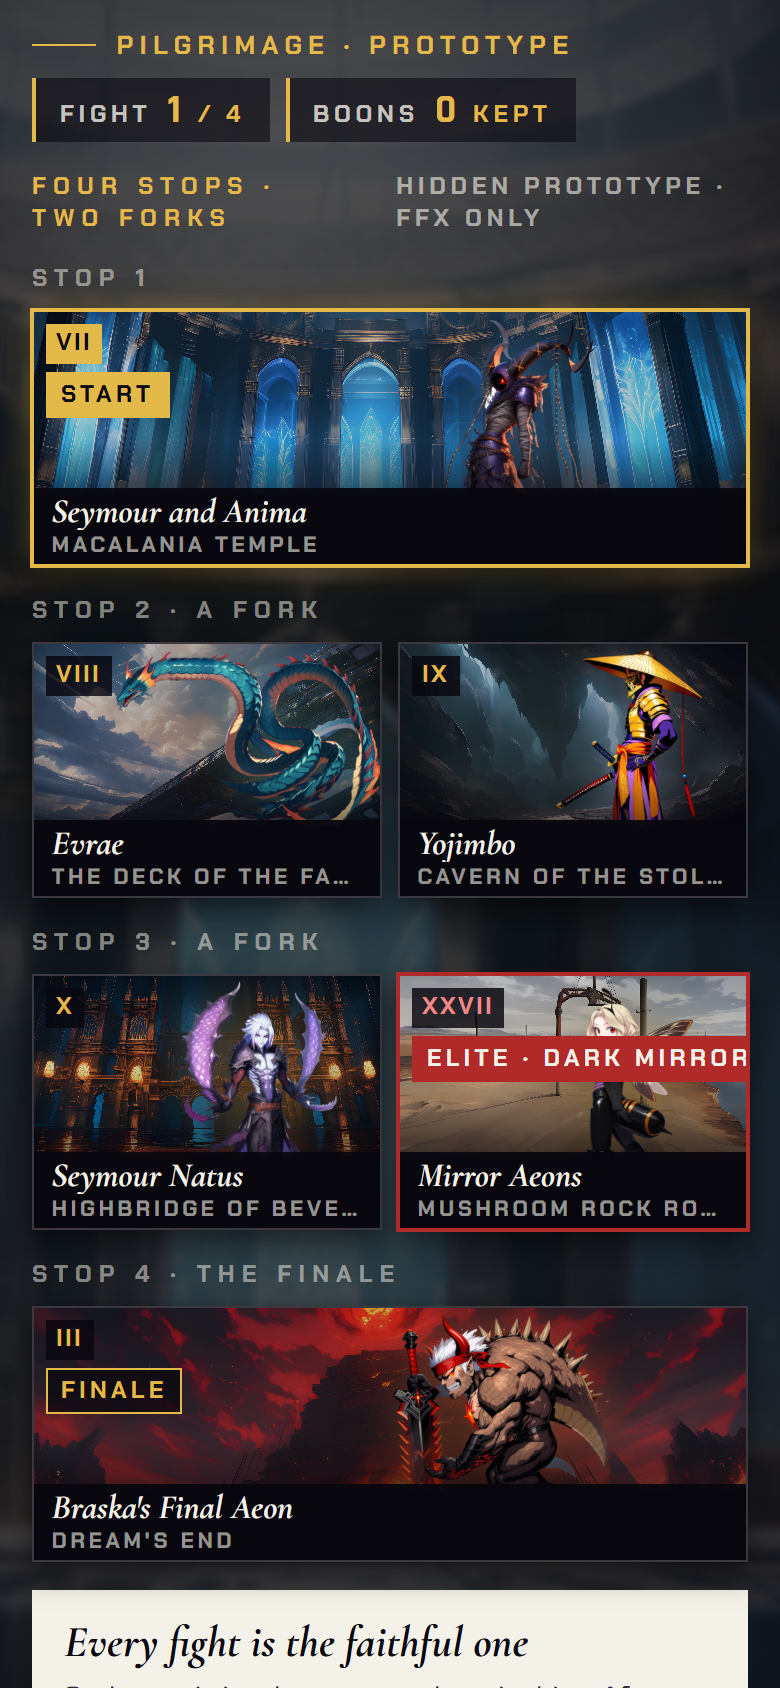
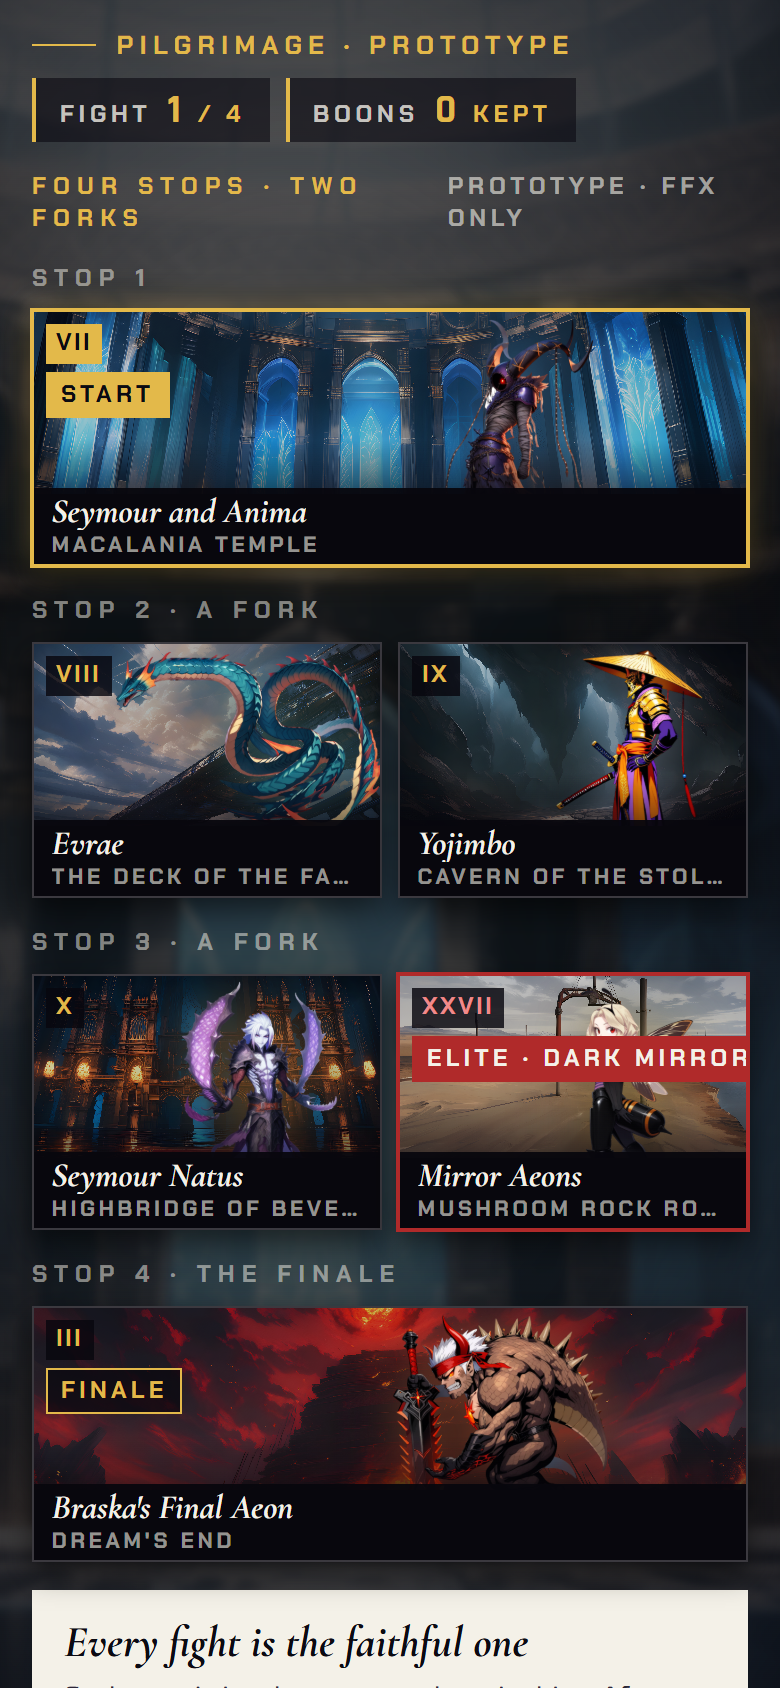
The Pilgrimage: a boon card shows a player a short tag (FFX item, FFX armour ability, New boon), never a file path or "ours"; the road's heading says Prototype
The sources stay in BoonDef.src, the code comments and the tests that pin them. A new test renders the road, every boon card, the road choice, the run-over page (lost and left) and the RUN tab and fails on a repo path, a research reference or the word "ours". Screenshots replaced from the e2e at 1600x900 and 390x844.

Game case: FFX only (the Pilgrimage's boons); presentation text only.

Changed region(s): [[0.4923, 0.0924, 0.9231, 0.154], [0.0308, 0.1232, 0.2769, 0.154], [0.4, 0.0924, 0.4615, 0.1232]]

diff --git a/src/app/pilgrim/boons.ts b/src/app/pilgrim/boons.ts
@@ -38,8 +38,10 @@ export interface BoonDef {
   readonly kind: 'ITEM' | 'ARMOUR' | 'NEW';
   /** What it does, in plain words. */
   readonly fx: string;
-  /** Where it comes from: the repo file and the research section, or NEW. */
+  /** Where it comes from: the repo file and the research section, or NEW. **Code and tests only: it is never shown to a player** (`tag` is what the card prints). */
   readonly src: string;
+  /** The short player-facing footer of the card: what kind of thing this is. */
+  readonly tag: 'FFX item' | 'FFX armour ability' | 'New boon';
   readonly effect: BoonEffect;
   /** True for a row the game does not have (the card wears a NEW tag). */
   readonly isNew: boolean;
@@ -50,16 +52,16 @@ const ABILITY_SRC = 'FFX auto-ability (combat-core 9). A one-fight loan, wearer 
 
 /** The pool: ten boons, each a real FFX item or auto-ability, or plainly NEW. */
 export const BOON_POOL: readonly BoonDef[] = [
-  { id: 'light-curtain', name: 'Light Curtain ×2', kind: 'ITEM', fx: 'Two Light Curtains in your pack: Protect to one ally, twice, in the next fight only.', src: ITEM_SRC('cures-utility-2'), effect: { kind: 'item', itemId: 'light-curtain', count: 2 }, isNew: false },
-  { id: 'lunar-curtain', name: 'Lunar Curtain ×2', kind: 'ITEM', fx: 'Two Lunar Curtains in your pack: Shell to one ally, twice, in the next fight only.', src: ITEM_SRC('cures-utility-2'), effect: { kind: 'item', itemId: 'lunar-curtain', count: 2 }, isNew: false },
-  { id: 'star-curtain', name: 'Star Curtain ×2', kind: 'ITEM', fx: 'Two Star Curtains in your pack: Reflect to one ally, twice, in the next fight only.', src: ITEM_SRC('cures-utility-2'), effect: { kind: 'item', itemId: 'star-curtain', count: 2 }, isNew: false },
-  { id: 'healing-spring', name: 'Healing Spring ×2', kind: 'ITEM', fx: 'Two Healing Springs in your pack: Regen to one ally, twice, in the next fight only.', src: ITEM_SRC('cures-utility-2'), effect: { kind: 'item', itemId: 'healing-spring', count: 2 }, isNew: false },
-  { id: 'stamina-tablet', name: 'Stamina Tablet', kind: 'ITEM', fx: "One Stamina Tablet in your pack: doubles one ally's maximum HP for the next fight.", src: ITEM_SRC('cures-utility-2'), effect: { kind: 'item', itemId: 'stamina-tablet', count: 1 }, isNew: false },
-  { id: 'mega-phoenix', name: 'Mega Phoenix', kind: 'ITEM', fx: 'One Mega Phoenix in your pack: revives every fallen ally at full HP, once, in the next fight only.', src: ITEM_SRC('restoratives-2'), effect: { kind: 'item', itemId: 'mega-phoenix', count: 1 }, isNew: false },
-  { id: 'auto-haste', name: 'Auto-Haste', kind: 'ARMOUR', fx: 'Permanent Haste for the wearer, who is also immune to Slow, for the next fight.', src: ABILITY_SRC, effect: { kind: 'auto-ability', ability: 'auto-haste', prefer: ['tidus', 'rikku', 'wakka', 'auron'] }, isNew: false },
-  { id: 'auto-regen', name: 'Auto-Regen', kind: 'ARMOUR', fx: 'Infinite Regen for the wearer, and it cannot be dispelled, for the next fight.', src: ABILITY_SRC, effect: { kind: 'auto-ability', ability: 'auto-regen', prefer: ['kimahri', 'tidus', 'auron', 'yuna'] }, isNew: false },
-  { id: 'auto-phoenix', name: 'Auto-Phoenix', kind: 'ARMOUR', fx: 'The wearer uses a Phoenix Down on a fallen ally by themselves, for the next fight.', src: ABILITY_SRC, effect: { kind: 'auto-ability', ability: 'auto-phoenix', prefer: ['auron', 'tidus', 'kimahri', 'yuna'] }, isNew: false },
-  { id: 'overdrive-charged', name: 'Overdrive charged', kind: 'NEW', fx: 'One ally starts the next fight with a full Overdrive gauge.', src: 'NEW, ours: no FFX item does this. The gauge is the engine\'s own starting value.', effect: { kind: 'overdrive', prefer: ['wakka', 'auron', 'tidus', 'yuna'] }, isNew: true },
+  { id: 'light-curtain', name: 'Light Curtain ×2', kind: 'ITEM', fx: 'Two Light Curtains in your pack: Protect to one ally, twice, in the next fight only.', src: ITEM_SRC('cures-utility-2'), tag: 'FFX item', effect: { kind: 'item', itemId: 'light-curtain', count: 2 }, isNew: false },
+  { id: 'lunar-curtain', name: 'Lunar Curtain ×2', kind: 'ITEM', fx: 'Two Lunar Curtains in your pack: Shell to one ally, twice, in the next fight only.', src: ITEM_SRC('cures-utility-2'), tag: 'FFX item', effect: { kind: 'item', itemId: 'lunar-curtain', count: 2 }, isNew: false },
+  { id: 'star-curtain', name: 'Star Curtain ×2', kind: 'ITEM', fx: 'Two Star Curtains in your pack: Reflect to one ally, twice, in the next fight only.', src: ITEM_SRC('cures-utility-2'), tag: 'FFX item', effect: { kind: 'item', itemId: 'star-curtain', count: 2 }, isNew: false },
+  { id: 'healing-spring', name: 'Healing Spring ×2', kind: 'ITEM', fx: 'Two Healing Springs in your pack: Regen to one ally, twice, in the next fight only.', src: ITEM_SRC('cures-utility-2'), tag: 'FFX item', effect: { kind: 'item', itemId: 'healing-spring', count: 2 }, isNew: false },
+  { id: 'stamina-tablet', name: 'Stamina Tablet', kind: 'ITEM', fx: "One Stamina Tablet in your pack: doubles one ally's maximum HP for the next fight.", src: ITEM_SRC('cures-utility-2'), tag: 'FFX item', effect: { kind: 'item', itemId: 'stamina-tablet', count: 1 }, isNew: false },
+  { id: 'mega-phoenix', name: 'Mega Phoenix', kind: 'ITEM', fx: 'One Mega Phoenix in your pack: revives every fallen ally at full HP, once, in the next fight only.', src: ITEM_SRC('restoratives-2'), tag: 'FFX item', effect: { kind: 'item', itemId: 'mega-phoenix', count: 1 }, isNew: false },
+  { id: 'auto-haste', name: 'Auto-Haste', kind: 'ARMOUR', fx: 'Permanent Haste for the wearer, who is also immune to Slow, for the next fight.', src: ABILITY_SRC, tag: 'FFX armour ability', effect: { kind: 'auto-ability', ability: 'auto-haste', prefer: ['tidus', 'rikku', 'wakka', 'auron'] }, isNew: false },
+  { id: 'auto-regen', name: 'Auto-Regen', kind: 'ARMOUR', fx: 'Infinite Regen for the wearer, and it cannot be dispelled, for the next fight.', src: ABILITY_SRC, tag: 'FFX armour ability', effect: { kind: 'auto-ability', ability: 'auto-regen', prefer: ['kimahri', 'tidus', 'auron', 'yuna'] }, isNew: false },
+  { id: 'auto-phoenix', name: 'Auto-Phoenix', kind: 'ARMOUR', fx: 'The wearer uses a Phoenix Down on a fallen ally by themselves, for the next fight.', src: ABILITY_SRC, tag: 'FFX armour ability', effect: { kind: 'auto-ability', ability: 'auto-phoenix', prefer: ['auron', 'tidus', 'kimahri', 'yuna'] }, isNew: false },
+  { id: 'overdrive-charged', name: 'Overdrive charged', kind: 'NEW', fx: 'One ally starts the next fight with a full Overdrive gauge.', src: 'NEW, ours: no FFX item does this. The gauge is the engine\'s own starting value.', tag: 'New boon', effect: { kind: 'overdrive', prefer: ['wakka', 'auron', 'tidus', 'yuna'] }, isNew: true },
 ];
 
 const BY_ID: ReadonlyMap<BoonId, BoonDef> = new Map(BOON_POOL.map((b) => [b.id, b]));

diff --git a/tests/unit/pilgrim-flow.test.ts b/tests/unit/pilgrim-flow.test.ts
@@ -21,6 +21,9 @@ import { pinRunSeed } from '../../src/app/runSeed.ts';
 import { EXPERIMENTS_KEY, experimentRecord, setExperimentStorageForTests } from '../../src/app/experiments/experimentRecords.ts';
 import { experimentRunActive } from '../../src/app/experiments/experimentRun.ts';
 import { activeFight } from '../../src/app/pilgrim/activeRun.ts';
+import { boonHtml, overHtml, routeHtml, runPanelHtml } from '../../src/app/pilgrim/pilgrimMarkup.ts';
+import { BOON_POOL } from '../../src/app/pilgrim/boons.ts';
+import { chooseRoad, finishFight, newRun, pickBoon, summarize } from '../../src/app/pilgrim/runState.ts';
 import { drawOffers, boonById } from '../../src/app/pilgrim/boons.ts';
 import { fightSeed, runPilgrimage } from '../../src/app/pilgrim/PilgrimFlow.ts';
 import type { PilgrimHost } from '../../src/app/pilgrim/pilgrimHook.ts';
@@ -295,5 +298,40 @@ describe('the fight seed', () => {
   it('moves with the fight number, so the same run replays', () => {
     expect(fightSeed({ seed: 100, road: ['macalania'] } as never)).toBe(101);
     expect(fightSeed({ seed: 100, road: ['macalania', 'evrae', 'natus'] } as never)).toBe(103);
+  });
+});
+
+describe('what a player reads', () => {
+  /** Developer text: a repo path, a research reference, or the word "ours". */
+  const DEV = /src\/|\.ts\b|combat-core|data\/ffx|\bours\b/i;
+  const text = (html: string): string => {
+    const el = document.createElement('div');
+    el.innerHTML = html;
+    return el.textContent ?? '';
+  };
+
+  it('no screen prints a file path, a research reference or "ours": the boon cards end in a short tag, the road, the run-over page and the RUN tab say none', () => {
+    const record = { runs: 2, clears: 0, best: { won: 2, reached: 3, cleared: false, timeMs: 5000, boonsUsed: 2, finishedAt: 1 }, last: null };
+    expect(text(routeHtml(record))).not.toMatch(DEV);
+    expect(text(routeHtml({ runs: 0, clears: 0, best: null, last: null }))).not.toMatch(DEV);
+    // The boon pick: every boon of the pool, as a card, on the pick screen.
+    let run = finishFight(newRun(1, 0), 'victory', 1);
+    expect(text(boonHtml(run, { zone: 'boons', boonSel: 0, roadSel: 0, notice: '' }))).not.toMatch(DEV);
+    const tags = new Set<string>();
+    for (let seed = 1; seed < 60; seed++) {
+      const picking = finishFight(newRun(seed, 0), 'victory', 1);
+      const html = boonHtml(picking, { zone: 'boons', boonSel: 1, roadSel: 0, notice: '' });
+      expect(text(html), String(seed)).not.toMatch(DEV);
+      for (const m of html.matchAll(/pgx-card__src">([^<]*)</g)) tags.add(m[1]!);
+    }
+    expect([...tags].sort()).toEqual(['FFX armour ability', 'FFX item', 'New boon']);
+    for (const b of BOON_POOL) expect(text(boonHtml({ ...run, offers: [b.id] }, { zone: 'boons', boonSel: 0, roadSel: 0, notice: '' })), b.id).not.toMatch(DEV);
+    run = chooseRoad(pickBoon(run, 0), 'evrae');
+    expect(text(boonHtml(finishFight(pickBoon(finishFight(run, 'victory', 2), 0), 'victory', 3) && pickBoon(finishFight(run, 'victory', 2), 0), { zone: 'road', boonSel: 0, roadSel: 0, notice: '' }))).not.toMatch(DEV);
+    // The run-over page for a loss, a win and leaving, and the RUN tab with and without boons.
+    const lost = finishFight(run, 'defeat', 9);
+    for (const done of [lost, finishFight(newRun(3, 0), 'left', 5)]) expect(text(overHtml(done, summarize(done, 10), null, true)), String(done.end)).not.toMatch(DEV);
+    expect(text(runPanelHtml(run, []))).not.toMatch(DEV);
+    expect(text(runPanelHtml(run, [{ boon: 'auto-regen', line: 'Auto-Regen is worn by Tidus.' }]))).not.toMatch(DEV);
   });
 });

diff --git a/src/app/pilgrim/pilgrimMarkup.ts b/src/app/pilgrim/pilgrimMarkup.ts
@@ -57,7 +57,7 @@ export function routeHtml(record: PilgrimRecord): string {
   return `
     <div class="pgx-page">
       <div class="pgx-top"><div class="pgx-eyebrow"><i></i>Pilgrimage · prototype</div><div class="pgx-hud">${chip('Fight', '1', `/ ${ROUTE_LENGTH}`)}${chip('Boons', '0', 'kept')}</div></div>
-      <div class="pgx-h">Four stops · two forks<i></i><small>Hidden prototype · FFX only</small></div>
+      <div class="pgx-h">Four stops · two forks<i></i><small>Prototype · FFX only</small></div>
       <div class="pgx-tree" data-role="tree"><svg class="pgx-links" data-role="links" aria-hidden="true"></svg>${tiers}</div>
       <div class="pgx-foot">
         <div class="pgx-slab"><h3>Every fight is the faithful one</h3>
@@ -82,7 +82,7 @@ function boonCard(id: BoonId, i: number, sel: boolean): string {
   return `<div class="pgx-card${sel ? ' pgx-card--sel' : ''}" data-action="pg:pick:${i}" data-boon="${id}" role="button" tabindex="0">
     <div class="pgx-card__kind">${def.kind === 'NEW' ? 'One fight' : def.kind}<span class="pgx-card__when">${when}</span></div>
     <div class="pgx-card__name">${esc(def.name)}</div><div class="pgx-card__fx">${esc(def.fx)}</div>
-    <div class="pgx-card__who">${esc(wearerLine(def))}</div><div class="pgx-card__src">${esc(def.src)}</div></div>`;
+    <div class="pgx-card__who">${esc(wearerLine(def))}</div><div class="pgx-card__src">${esc(def.tag)}</div></div>`;
 }
 
 function forkCard(stop: RouteStop, i: number, sel: boolean, live: boolean): string {

diff --git a/tests/unit/pilgrim-run.test.ts b/tests/unit/pilgrim-run.test.ts
@@ -64,6 +64,9 @@ describe('the boon pool and its draw', () => {
       if (b.effect.kind === 'item') expect(b.src, b.id).toMatch(/src\/data\/ffx\/items\/.*combat-core 8\.2/);
       if (b.effect.kind === 'auto-ability') expect(b.src, b.id).toMatch(/combat-core 9/);
       if (b.isNew) expect(b.src, b.id).toMatch(/^NEW, ours/);
+      // The card prints the short tag; the source above stays in code and here.
+      expect(b.tag, b.id).toBe(b.kind === 'ITEM' ? 'FFX item' : b.kind === 'ARMOUR' ? 'FFX armour ability' : 'New boon');
+      expect(b.tag, b.id).not.toMatch(/src\/|\.ts\b|combat-core|\bours\b/i);
     }
     expect(boonById('auto-regen').effect).toMatchObject({ kind: 'auto-ability', ability: 'auto-regen' });
     expect(isBoonId('auto-haste')).toBe(true);

diff --git a/docs/handoff/pilgrim-proto.md b/docs/handoff/pilgrim-proto.md
@@ -32,9 +32,9 @@ A boon lasts ONE fight. It is applied by cloning the stop's shipped party build 
 | Auto-Haste | auto-ability loan | on the wearer's armour: permanent Haste, immune to Slow | `AutoAbilityId` `auto-haste`, combat-core 9 |
 | Auto-Regen | auto-ability loan | permanent Regen, cannot be dispelled | `auto-regen`, combat-core 9 |
 | Auto-Phoenix | auto-ability loan | uses a Phoenix Down on a fallen ally | `auto-phoenix`, combat-core 9 |
-| **Overdrive charged** | **NEW, ours** | the wearer's starting `overdrive.gauge` = 100 | no FFX item does this; the card says NEW |
+| **Overdrive charged** | **NEW, ours** | the wearer's starting `overdrive.gauge` = 100 | no FFX item does this; the card footer says "New boon" |
 
-**Ours, and marked so on the cards:** the count one pick adds (curtains and springs x2, the rest x1), the preferred wearer lists (Haste: Tidus, Rikku, Wakka, Auron; Regen: Kimahri, Tidus, Auron, Yuna; Phoenix: Auron, Tidus, Kimahri, Yuna; Overdrive: Wakka, Auron, Tidus, Yuna; the first preferred ally on the field wins, else the first ally on the field who lacks it), "the Elite pays 2", the road itself. A full armour (4 of 4, as every Mirror Aeons armour is) gives up its last slot for the loan; it never makes a fifth. A boon nobody can take says so and changes nothing.
+**Ours (marked in the code comments, in `BoonDef.src` and in this note; the card shows a player only the short footer tag "FFX item", "FFX armour ability" or "New boon", never a path or "ours"; `pilgrim-flow.test.ts` pins that no screen prints a path, a research reference or "ours"):** the count one pick adds (curtains and springs x2, the rest x1), the preferred wearer lists (Haste: Tidus, Rikku, Wakka, Auron; Regen: Kimahri, Tidus, Auron, Yuna; Phoenix: Auron, Tidus, Kimahri, Yuna; Overdrive: Wakka, Auron, Tidus, Yuna; the first preferred ally on the field wins, else the first ally on the field who lacks it), "the Elite pays 2", the road itself. A full armour (4 of 4, as every Mirror Aeons armour is) gives up its last slot for the loan; it never makes a fifth. A boon nobody can take says so and changes nothing.
 
 The draw is seeded and pure (`drawOffers(seed, pickNo, exclude)`, mulberry32): the same run seed and pick number give the same three. The run seed is `drawRunSeed()` (so `window.__pyrefly.setSeed(n)` pins it); a fight's seed is `run.seed + stop number`.
 
@@ -54,7 +54,7 @@ The draw is seeded and pure (`drawOffers(seed, pickNo, exclude)`, mulberry32): t
 
 ## Tests
 
-- New unit files (54 tests): `tests/unit/pilgrim-run.test.ts` (19: the road is existing FFX chapters in story order; the seeded draw is deterministic and distinct; the state machine; storage outside SaveData), `pilgrim-boons-engine.test.ts` (10: every boon applied to every shipped stop leaves the record untouched; the REAL FFX engine started from a boon'd setup shows Haste/Regen on the wearer, a full gauge, an item stack it spends), `pilgrim-door.test.ts` (14: the word, key bindings with the real `Input`, the title, the real board, the one `m` overlap, the flow arm), `pilgrim-flow.test.ts` (11: the real screens driven through `PilgrimFlow` with a stand-in for the fight: order of fights, boon in the NEXT fight only, the Elite's two, loss, Again with one press, leaving, QUIT TO TITLE, hand-over).
+- New unit files (55 tests): `tests/unit/pilgrim-run.test.ts` (19: the road is existing FFX chapters in story order; the seeded draw is deterministic and distinct; the state machine; storage outside SaveData), `pilgrim-boons-engine.test.ts` (10: every boon applied to every shipped stop leaves the record untouched; the REAL FFX engine started from a boon'd setup shows Haste/Regen on the wearer, a full gauge, an item stack it spends), `pilgrim-door.test.ts` (14: the word, key bindings with the real `Input`, the title, the real board, the one `m` overlap, the flow arm), `pilgrim-flow.test.ts` (12: no screen prints developer text; the real screens driven through `PilgrimFlow` with a stand-in for the fight: order of fights, boon in the NEXT fight only, the Elite's two, loss, Again with one press, leaving, QUIT TO TITLE, hand-over).
 - Related existing suites, 55 files / 988 tests, all green: the door suites (`chapter-doors`, `yojimbo-door`, ... `summon-door`), `frontend-chapter-select-screen`, `party-prep-*`, `ui-ffx-party-prep`, `pause-restart-*`, `flow-*`, `ff7-experiment-records`, `title-near-mask`, `r43-text-floor-css`, and the chapter flow suites.
 - e2e `tests/e2e/pilgrim.spec.ts` (real keys, headless Chromium, `PYREFLY_BROWSER=gpu`, 1600x900 and 390x844): title -> board -> `pilgrim` -> road -> RUN-tab prep -> battle -> win -> boon pick (the seed's offers equal `drawOffers`) -> road -> prep names the boon -> battle with **Auto-Regen on Tidus read from the engine** -> loss -> run-over -> Again in two presses; the keys and the save are checked. **Disclosed: the two fights are played by the engine's own auto-play** (`window.__pyrefly.autoBattle`, `intended` to win stop 1, `defend` to lose stop 2) at skip speed; the debug API only starts it and reads state. Run it: `MSYS_NO_PATHCONV=1 BASE_PATH=/ PREVIEW_PORT=5897 PYREFLY_BROWSER=gpu npx playwright test tests/e2e/pilgrim.spec.ts` against `npx vite --port 5897` (Git Bash rewrites `BASE_PATH=/` without `MSYS_NO_PATHCONV`). With watch off, restart the dev server after an edit: it serves its first transform.
 - Frames: `docs/screenshots/pilgrim-proto/<w>x<h>-1-route`, `2-prep-first`, `3-boons`, `4-boons-road`, `5-prep-boon`, `6-fight-two`, `7-over` (1600x900 and 390x844). Target and build side by side: the mockups `o2B-a`, `o2B-b`, `o2B-c`, `o2B-d` in `pilgrim-mock/`.
